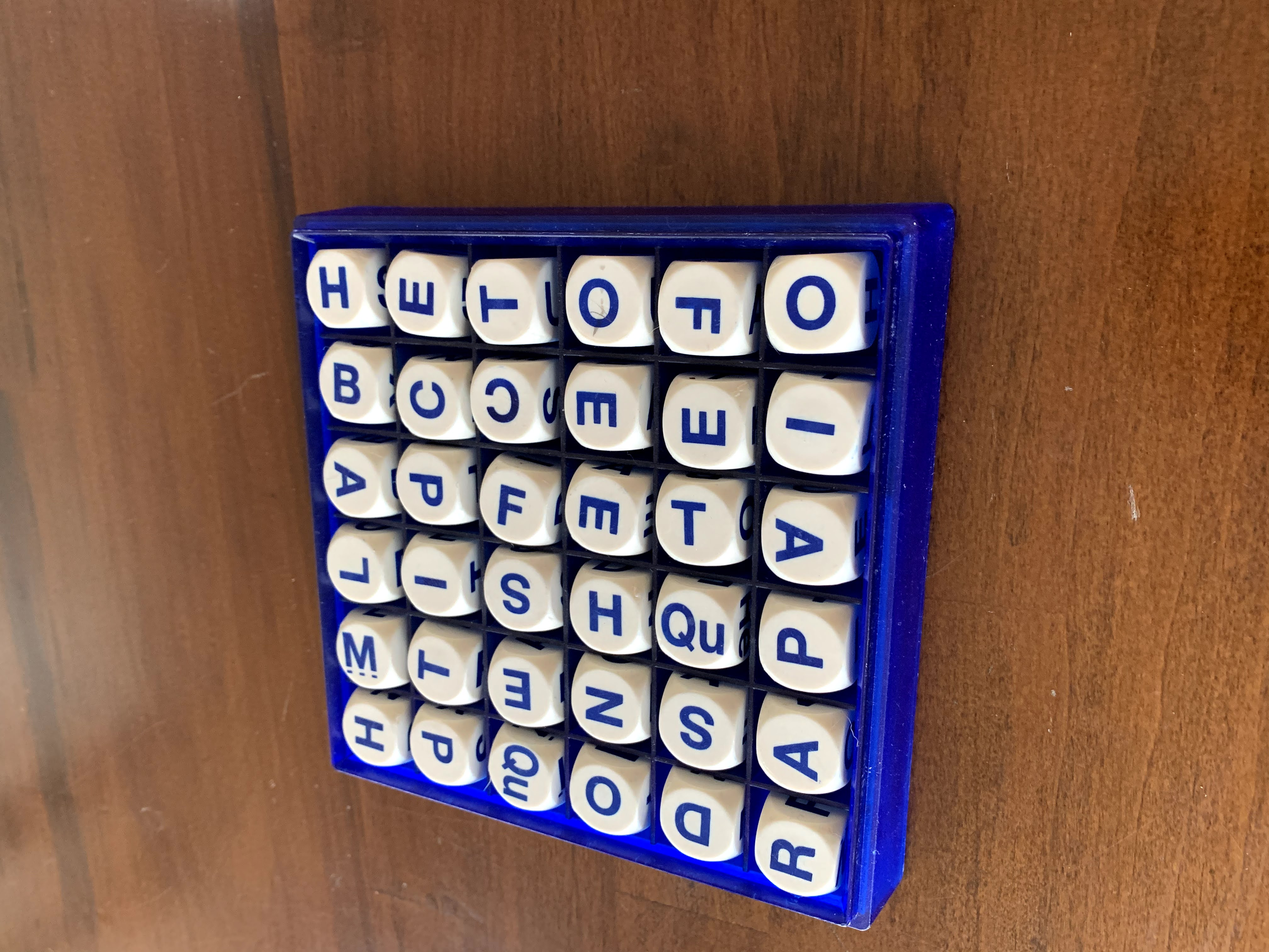
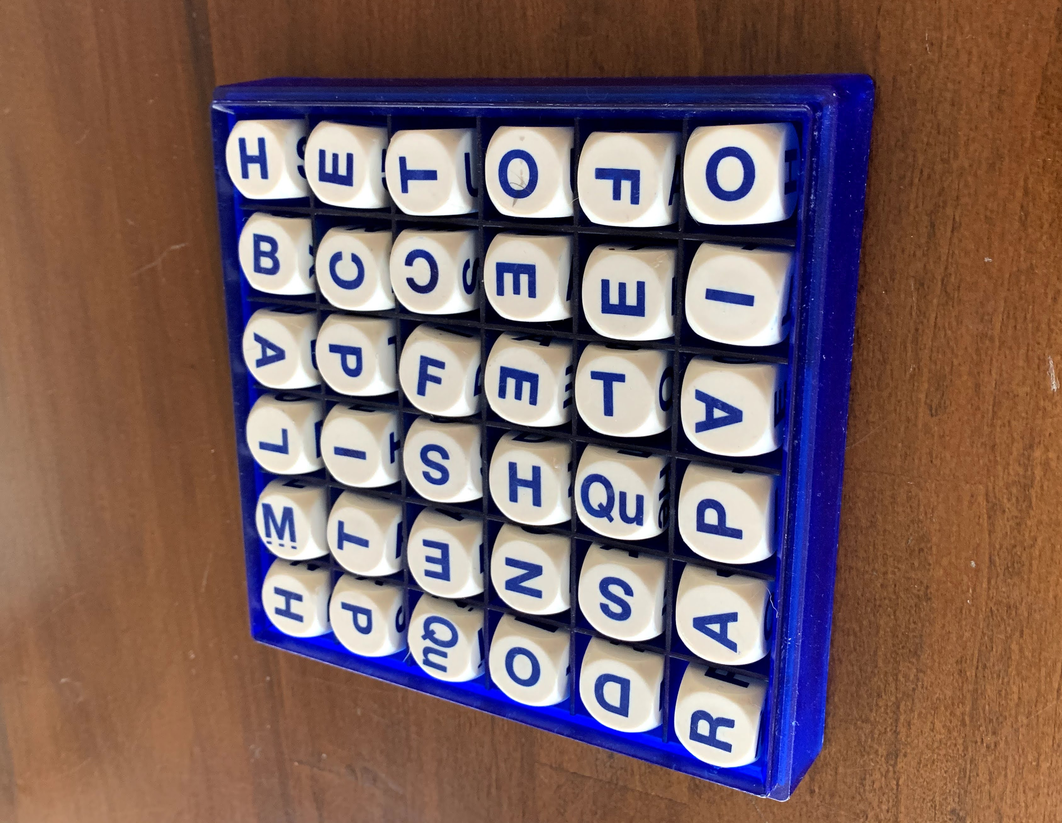
Dedupe bounding boxes with this one weird trick (a strange commonly-used hack)

diff --git a/boggler/img.py b/boggler/img.py
@@ -88,27 +88,87 @@ def bbox(proc_img: ProcessedImage, store_components=True) -> ProcessedImage:
         meta["img_bbox"] = components
     return ProcessedImage(img, overlay, meta)
 
+
+def combine_overlapping_bbox(proc_img: ProcessedImage, store_components=True) -> ProcessedImage:
+    """Yeah, it's probably n^2. Also mutates proc_img.metadata["bbox"]. Watch out.
+
+    Horrendous duplicate-the-list hack courtesy of
+    https://answers.opencv.org/question/204530/merge-overlapping-rectangles/.
+
+    """
+    bbox = proc_img.metadata["bbox"]
+    # magic numbers, here be dragons.
+    grouped_bbox, weights = cv.groupRectangles(bbox + bbox, groupThreshold=1, eps=0.2)
+    LOG.info(f"Combined {len(bbox) - len(grouped_bbox)} duplicate bounding boxes")
+    proc_img.metadata["bbox"] = grouped_bbox
+    return proc_img
+
+
 def improve_bbox(proc_img: ProcessedImage, store_components=True) -> ProcessedImage:
     """Use the initial bbox hypothesis to generate an NxN grid of bboxes."""
     bboxen = proc_img.metadata["bbox"]
-    proc_img.overlay = proc_img.orig.copy()
+    proc_img.img = proc_img.orig.copy()
     bbox_w_h = int(1.15 * np.median([(br[2], br[3]) for br in bboxen]))
     # Set all bbox dimensions to median dimension + 15%
     def scale_around_centroid(bbin, newlen):
         x, y, w, h = bbin
-        cx, cy = int(x + w/2), int(y + h/2)
-        return (max(cx - newlen//2, 0), max(cy - newlen//2, 0), newlen, newlen)
+        cx, cy = int(x + w / 2), int(y + h / 2)
+        return (max(cx - newlen // 2, 0), max(cy - newlen // 2, 0), newlen, newlen)
+
     newbbs = [scale_around_centroid(bb, bbox_w_h) for bb in bboxen]
     meta = {"improved_bbox": newbbs}
     for x, y, w, h in newbbs:
         LOG.debug(f"Storing component xywh {x} {y} {w} {h}")
-        cv.rectangle(proc_img.overlay, (x, y), (x + w, y + h), (200, 0, 0), 2)
+        cv.rectangle(proc_img.img, (x, y), (x + w, y + h), (200, 0, 0), 2)
 
     if store_components:
-        meta["img_improved_bbox"] = [proc_img.orig[y : y+ h, x : x + w] for x, y, w, h in newbbs]
+        meta["img_improved_bbox"] = [proc_img.orig[y : y + h, x : x + w] for x, y, w, h in newbbs]
 
     proc_img.metadata.update(meta)
     return proc_img
+
+
+def outlier_reject(proc_img: ProcessedImage) -> ProcessedImage:
+    from sklearn.covariance import EllipticEnvelope
+
+    bboxen = proc_img.metadata["bbox"]
+    bbox_xy = [(x, y) for x, y, _, __ in bboxen]
+    cov = EllipticEnvelope().fit(bbox_xy)
+    fit = cov.predict(bbox_xy)
+    LOG.debug(f"Outlier predictions: {fit}")
+    LOG.debug(f"Not performing outlier rejection because it is not yet trustworthy. Maybe we don't need it.")
+    return proc_img
+
+
+def reshape_from_bbox_bounds(proc_img: ProcessedImage) -> ProcessedImage:
+    bboxen = proc_img.metadata["improved_bbox"]
+    top_left = min(bboxen, key=lambda p: p[0] + p[1])
+    bot_right = max(bboxen, key=lambda p: p[0] + p[1] + p[2] + p[3])
+    bot_left = max(bboxen, key=lambda p: p[1] + p[3] - p[0])
+    top_right = max(bboxen, key=lambda p: p[0] + p[2] - p[1])
+    for x, y, w, h in top_left, bot_right, bot_left, top_right:
+        cv.rectangle(proc_img.img, (x, y), (x + w, y + h), (200, 0, 0), 8)
+    top_left = (top_left[0], top_left[1])
+    bot_right = (bot_right[0] + bot_right[2], bot_right[1] + bot_right[3])
+    bot_left = (bot_left[0], bot_left[1] + bot_left[3])
+    top_right = (top_right[0] + top_right[2], top_right[1])
+    mindim = min(np.shape(proc_img.orig))
+    tl, br, tr, bl = (0, 0), (mindim, mindim), (mindim, 0), (0, mindim)
+    transorm = cv.getPerspectiveTransform(
+        np.float32((top_left, top_right, bot_left, bot_right)), np.float32((tl, tr, bl, br))
+    )
+    transformed = cv.warpPerspective(proc_img.orig, transorm, (mindim, mindim))
+    proc_img.img = transformed
+    return proc_img
+    # LOG.debug(f"Bounds: ")
+
+
+def gridify(proc_img: ProcessedImage) -> ProcessedImage:
+    """Take a rectified + cropped ProcessedImage and fit an NxN grid, N == 4, 5, or 6 based on num bboxes."""
+    nguess = min([4, 5, 6], key=lambda n: abs(n * n - len(proc_img.metadata["improved_bbox"])))
+    LOG.info(f"Guessing that this is {nguess} x {nguess} board")
+    return proc_img
+
 
 # Aborted attempt at using pytesseract
 # def chars_from_bbox(proc_img: ProcessedImage) -> ProcessedImage:
@@ -123,7 +183,14 @@ def improve_bbox(proc_img: ProcessedImage, store_components=True) -> ProcessedIm
 
 
 PREPROC_PIPELINE: List[callable] = [bw, expand, invert, threshold, open_close]
-EXTRACT_PIPELINE: List[callable] = [bbox, improve_bbox]
+EXTRACT_PIPELINE: List[callable] = [
+    bbox,
+    outlier_reject,
+    combine_overlapping_bbox,
+    improve_bbox,
+    reshape_from_bbox_bounds,
+    gridify,
+]
 
 
 def compose(*functions):
@@ -135,13 +202,12 @@ def preproc(imgs: Iterable[np.ndarray]) -> Iterable[np.ndarray]:
         yield compose(*PREPROC_PIPELINE)(img)
 
 
-
-def write_proc_images(imgs: Iterable[ProcessedImage], output_root: str= DEBUG_OUT):
+def write_proc_images(imgs: Iterable[ProcessedImage], output_root: str = DEBUG_OUT):
     for i, proc in enumerate(imgs):
         this_root = os.path.join(output_root, f"{i:03d}")
         Path(this_root).mkdir(parents=True, exist_ok=True)
         cv.imwrite(os.path.join(this_root, "orig.jpg"), proc.orig)
-        cv.imwrite(os.path.join(this_root, "overlay.jpg"), proc.overlay)
+        cv.imwrite(os.path.join(this_root, "processed.jpg"), proc.img)
         for meta_key, meta_val in proc.metadata.items():
             if meta_key.startswith("img_"):
                 feat_root = os.path.join(this_root, meta_key)
@@ -158,7 +224,7 @@ def extract(imgs: Iterable[np.ndarray], store_components=True) -> Iterable[Proce
         for extract_step in EXTRACT_PIPELINE:
             this_proc = extract_step(proc)
             if store_components:
-                cv.imwrite(os.path.join(DEBUG_OUT, f"{i:03d}_{extract_step.__name__}.jpg"), this_proc.overlay)
+                cv.imwrite(os.path.join(DEBUG_OUT, f"{i:03d}_{extract_step.__name__}.jpg"), this_proc.img)
             # proc.metadata.update(this_proc.metadata)
             proc = this_proc
         yield proc

diff --git a/boggler/features.py b/boggler/features.py
@@ -1,0 +1,117 @@
+import logging
+import random
+from typing import Iterable, Generator
+
+import cv2 as cv
+import matplotlib.pyplot as plt
+import numpy as np
+import tensorflow as tf
+from tensorflow.keras import layers, models
+
+from .data import read_ground_truth, LabeledExample, LABELS, GROUND_TRUTH
+
+FEATURE_SIZE = (32, 32)
+
+TRAIN_EPOCHS = 10
+
+NUM_CLASSES = len(LABELS)
+
+LOG = logging.getLogger(__name__)
+
+def scale(img: np.ndarray) -> np.ndarray:
+    return cv.resize(img, FEATURE_SIZE)
+
+def rotate(img: np.ndarray) -> Generator:
+    yield img
+    yield cv.rotate(img, cv.ROTATE_90_CLOCKWISE)
+    yield cv.rotate(img, cv.ROTATE_90_COUNTERCLOCKWISE)
+    yield cv.rotate(img, cv.ROTATE_180)
+
+def perspective(img: np.ndarray, magnitude: float = 0.2) -> np.ndarray:
+    return img
+
+def onehot_label(label):
+    oh = np.zeros([NUM_CLASSES])
+    oh[LABELS.index(label)] = 1
+    return oh
+
+
+def serialize_example(img, label):
+    tf.train.Feature(int64_list=tf.train.Int64List(value=[value]))
+
+
+def randscale_crop(img, min_visible = 0.75) -> np.ndarray:
+    # scale_factor = 1.0 + random.random() * (1.0 - min_visible)
+    scale_factor = np.random.uniform(1.0, 1.0 / min_visible, [2])
+    orig_shape = np.array(np.shape(img))
+    new_shape = orig_shape * scale_factor
+    # I am bad at np
+    new_shape = np.array([int(new_shape[0]), int(new_shape[1])])
+    LOG.debug(f"Scale factor f{scale_factor}. {orig_shape} -> {new_shape}")
+    newim = cv.resize(img, tuple(new_shape))
+    newxy = (new_shape - orig_shape) * np.random.uniform(size=[2])
+    newxy = tuple(int(d) for d in newxy)
+    LOG.debug(f"New origin: {newxy}")
+    return newim[newxy[0]: newxy[0] + orig_shape[0], newxy[1]: newxy[1] + orig_shape[1]]
+
+def feat_permutations(img: np.ndarray) -> Generator:
+    for rot in rotate(img):
+        for _ in range(30):
+            yield scale(randscale_crop(rot.copy()))
+
+def iter_feats(root=GROUND_TRUTH):
+    for img, gt in read_ground_truth(root):
+        for feat in feat_permutations(img):
+            yield feat, onehot_label(gt)
+
+def batch(seq, bsize = 10):
+    i = 0
+    out = []
+    while i < len(seq):
+        out += seq[i:i+bsize]
+        i += bsize
+    return out
+
+
+#### TODO: Move below to models.py?
+def cnn_model():
+    model = models.Sequential()
+    model.add(layers.Conv2D(40, (3, 3), activation='relu', input_shape=(32,32,1)))
+    model.add(layers.MaxPooling2D((2, 2)))
+    model.add(layers.Conv2D(64, (3, 3), activation='relu'))
+    model.add(layers.MaxPooling2D((2, 2)))
+    model.add(layers.Conv2D(64, (3, 3), activation='relu'))
+    model.add(layers.Flatten())
+    model.add(layers.Dense(64, activation='relu'))
+    model.add(layers.Dense(NUM_CLASSES))
+    return model
+
+def train():
+    model = cnn_model()
+    print(model.summary())
+    allfeats = list(iter_feats())
+    random.shuffle(allfeats)
+    images, labels = [np.expand_dims(i,-1) for i, l in allfeats], [l for i, l in allfeats]
+    train_img, train_label = np.array(images[:-20]), np.array(labels[:-20])
+    # train_img, train_label = batch(train_img), batch(train_label)
+    val_img, val_label = np.array(images[-20:]), np.array(labels[-20:])
+    # val_img, val_label = batch(val_img), batch(val_label)
+    model.compile(optimizer='adam',
+                  loss=tf.keras.losses.CategoricalCrossentropy(from_logits=True),
+                  metrics=['accuracy'])
+
+    history = model.fit(train_img, train_label, epochs=TRAIN_EPOCHS,
+                        validation_data=(val_img, val_label))
+
+    plt.plot(history.history['accuracy'], label='accuracy')
+    plt.plot(history.history['val_accuracy'], label='val_accuracy')
+    plt.xlabel('Epoch')
+    plt.ylabel('Accuracy')
+    plt.ylim([0.5, 1])
+    plt.legend(loc='lower right')
+    plt.show()
+
+    test_loss, test_acc = model.evaluate(val_img, val_label, verbose=2)
+
+
+

diff --git a/boggler/data.py b/boggler/data.py
@@ -8,6 +8,7 @@ import numpy as np
 
 IMG_IN = "img"
 DEBUG_OUT = "debug"
+GROUND_TRUTH = "groundtruth"
 FEATURES = "features"
 
 
@@ -25,11 +26,11 @@ def read_images(root=IMG_IN, partition="dev", ground_truth=False) -> Generator:
 @attr.s()
 class ProcessedImage:
     orig: np.ndarray = attr.ib()
-    overlay: np.ndarray = attr.ib()
+    img: np.ndarray = attr.ib()
     metadata: dict = attr.ib(factory=dict)
 
 
-LABELS = ({"er", "qu", "!", "?"} | set(string.ascii_lowercase)) - {"q"}
+LABELS = ["er", "qu", "!", "?"]  + list(c for c in string.ascii_lowercase if c != "q")
 LABELS_KEYSTROKES = {"E": "er", "q": "qu", "!": "!", "?": "?"}
 LABELS_KEYSTROKES.update({k: k for k in string.ascii_lowercase if k != "q"})
 
@@ -42,3 +43,23 @@ class LabeledExample:
     def _validate_label(self, _, value):
         if not (value is None or value in LABELS):
             raise ValueError(f"Unknown label {value}")
+
+def walk_ground_truth(root=GROUND_TRUTH):
+    for dirpath, dnames, fnames in os.walk(root):
+        for f in fnames:
+            if f.endswith(".jpg"):
+                gt_name = os.path.splitext(f)[0] + ".label"
+                im_path = os.path.join(dirpath, f)
+                gt_path = os.path.join(dirpath, gt_name)
+                yield (im_path, gt_path)
+
+
+def read_ground_truth(root=GROUND_TRUTH):
+    for im_path, gt_path in walk_ground_truth(root):
+        gt = None
+        if os.path.exists(gt_path):
+            with open(gt_path) as gtin:
+                gt = gtin.read()
+        img = cv.cvtColor(cv.imread(im_path), cv.COLOR_BGR2GRAY)
+        img= cv.threshold(img, 0, 255, cv.THRESH_BINARY | cv.THRESH_OTSU)[1]
+        yield img, gt

diff --git a/boggler/annotate.py b/boggler/annotate.py
@@ -7,7 +7,7 @@ import attr
 import cv2 as cv
 import numpy as np
 
-from .data import LabeledExample, FEATURES, LABELS, LABELS_KEYSTROKES
+from .data import LabeledExample, GROUND_TRUTH, LABELS, LABELS_KEYSTROKES, walk_ground_truth
 
 LOG = logging.getLogger(__name__)
 
@@ -22,17 +22,12 @@ def anno_single(example: np.ndarray) -> LabeledExample:
             print(f"Char '{c}' (code {k}) not recognized")
         return LabeledExample(example, LABELS_KEYSTROKES[c])
 
-def label_all(root=FEATURES, overwrite = False):
-    for dirpath, dnames, fnames in os.walk(root):
-        for f in fnames:
-            if f.endswith(".jpg"):
-                gt_name = os.path.splitext(f)[0] + ".label"
-                im_path = os.path.join(dirpath, f)
-                gt_path = os.path.join(dirpath, gt_name)
-                if os.path.exists(gt_path) and not overwrite:
-                    LOG.debug(f"GT label for {im_path} already exists at {gt_path}; skipping")
-                else:
-                    example = anno_single(cv.imread(im_path))
-                    with open(gt_path, "w") as gtfp:
-                        gtfp.write(example.label)
+def label_all(root=GROUND_TRUTH, overwrite = False):
+    for im_path, gt_path in walk_ground_truth(root=root):
+        if os.path.exists(gt_path) and not overwrite:
+            LOG.debug(f"GT label for {im_path} already exists at {gt_path}; skipping")
+        else:
+            example = anno_single(cv.imread(im_path))
+            with open(gt_path, "w") as gtfp:
+                gtfp.write(example.label)
 

diff --git a/boggler/cli.py b/boggler/cli.py
@@ -4,7 +4,10 @@ import logging
 
 from boggler.img import preproc, extract, write_proc_images
 from boggler.annotate import label_all
-from boggler.data import read_images, FEATURES
+from boggler.data import read_images, GROUND_TRUTH
+from boggler.features import iter_feats
+
+LOG = logging.getLogger(__name__)
 
 
 @click.group()
@@ -17,14 +20,27 @@ def cli(verbose):
 def seg(interactive):
     origim = read_images()
     for pimg in write_proc_images(extract(preproc(read_images()))):
-        img = pimg.overlay
+        img = pimg.img
         if interactive:
+            LOG.info(f"{len(pimg.metadata['improved_bbox'])} bboxes found")
             cv.imshow("Display window", img)
             k = cv.waitKey(0)
             print(k)
 
 @cli.command()
-@click.option("-f", "--feats-dir", default=FEATURES)
-def annotate(feats_dir):
-    label_all(feats_dir)
+@click.option("-g", "--ground-truth-dir", default=GROUND_TRUTH)
+def annotate(ground_truth_dir):
+    label_all(ground_truth_dir)
+
+
+@cli.command()
+@click.option("-g", "--ground-truth-dir", default=GROUND_TRUTH)
+@click.option("-i", "--interactive", is_flag=True, default=False)
+def genfeats(ground_truth_dir, interactive):
+    for feat, label in iter_feats(ground_truth_dir):
+        if interactive:
+            cv.imshow("Display window", feat)
+            k = cv.waitKey(0)
+
+
 
